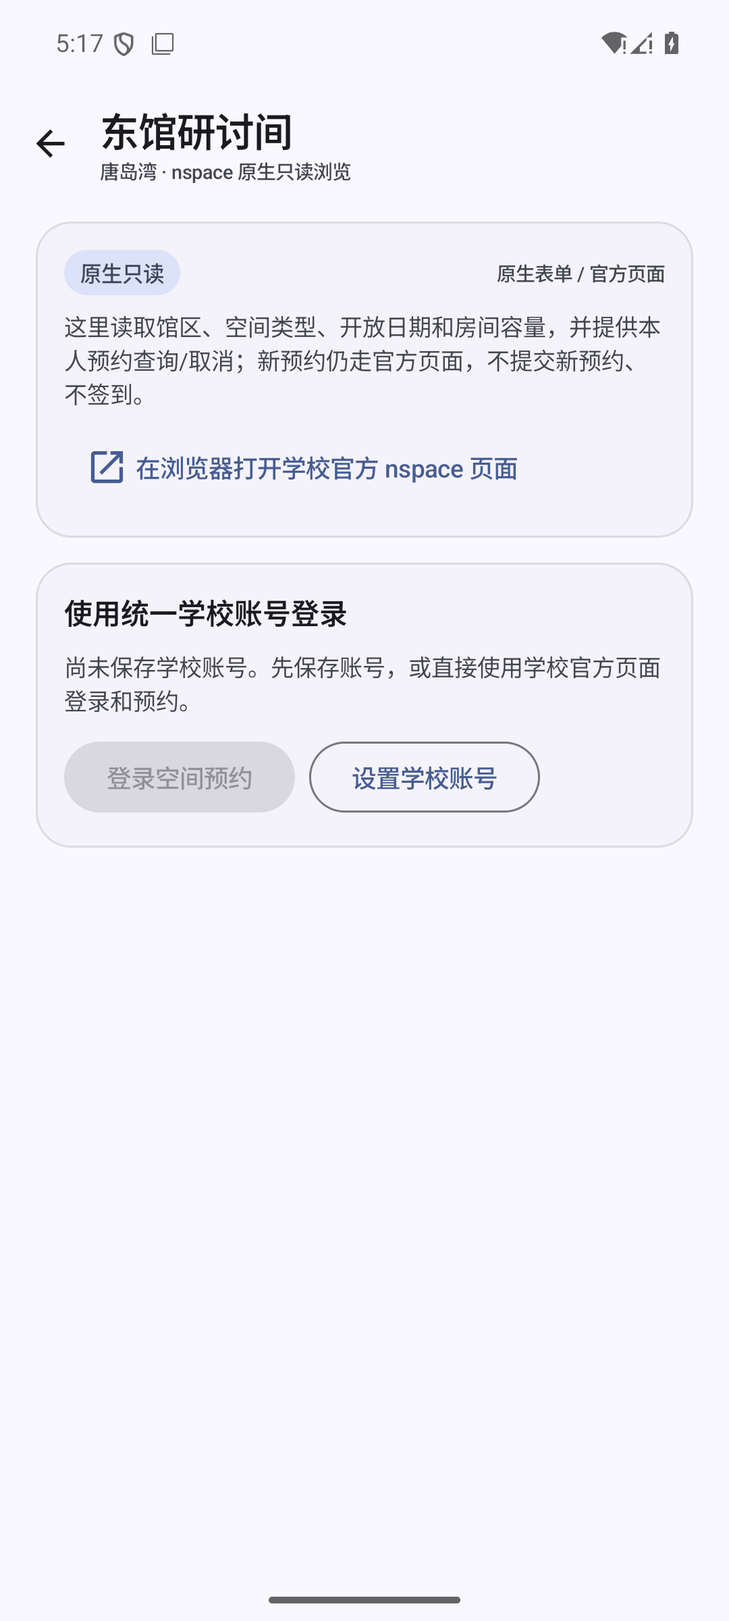
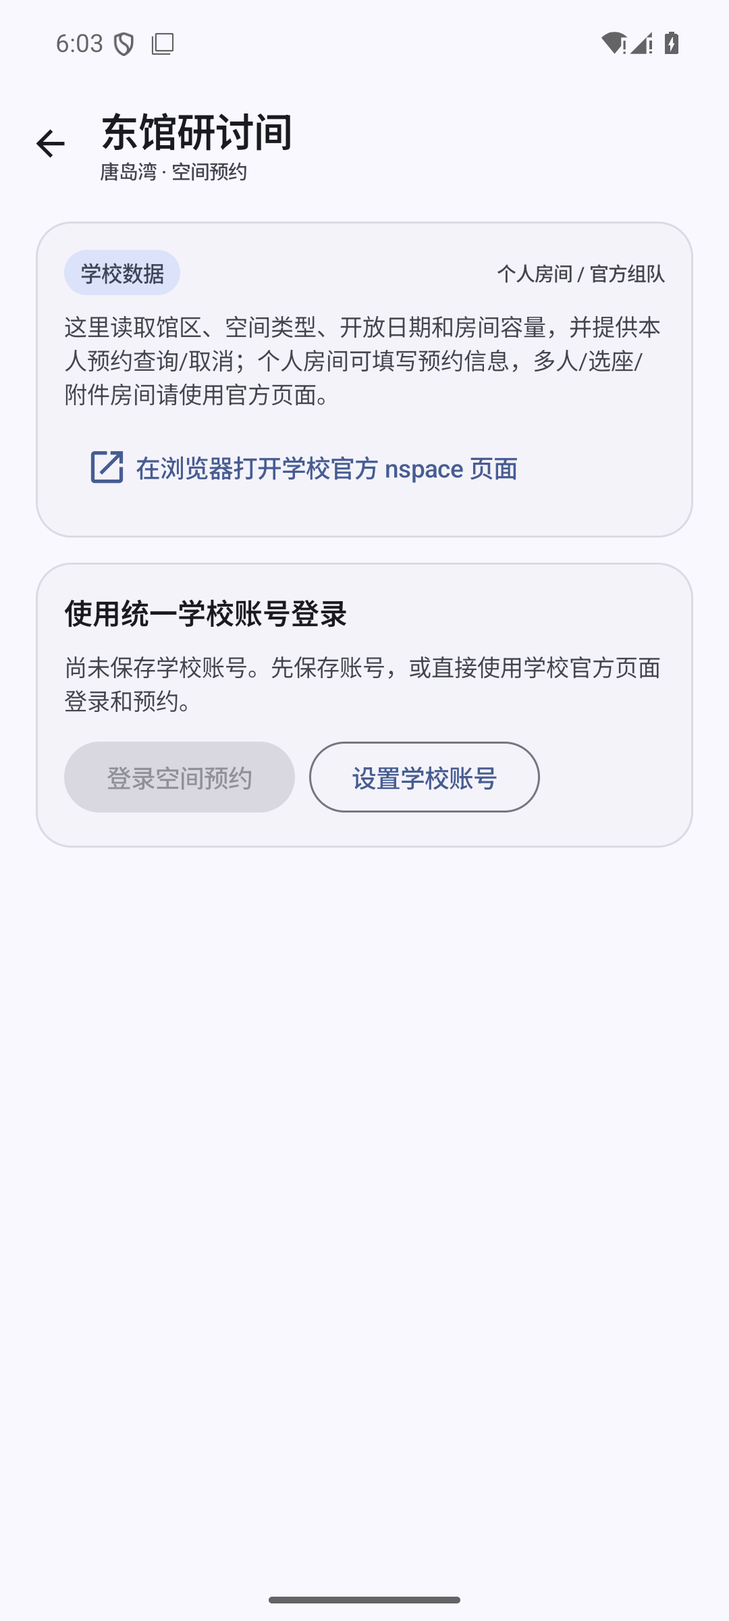
fix(library): correct nspace room types and refine booking copy

diff --git a/feature/library/src/main/kotlin/com/upcpocket/app/ui/library/NspaceScreen.kt b/feature/library/src/main/kotlin/com/upcpocket/app/ui/library/NspaceScreen.kt
@@ -53,10 +53,10 @@ import com.upcpocket.app.ui.components.SectionHeader
 import com.upcpocket.app.ui.components.StatusPill
 
 /**
- * 唐岛湾东馆研讨间的原生只读浏览。
+ * 唐岛湾东馆研讨间的房间浏览与个人预约。
  *
- * 这不是预约提交页：房间、容量、开放日期来自 nspace 的已观察只读接口；真正的预约、
- * 参与人和取消仍在学校官方 nspace 页面完成，避免在没有实测写协议时伪造成功。
+ * 房间、容量、开放日期来自 nspace 的只读接口；个人房间可直接填写预约表单，
+ * 多人/选座/附件房间会引导到学校官方页面。真正的最终提交仍需用户确认。
  */
 @OptIn(ExperimentalMaterial3Api::class)
 @Composable
@@ -93,7 +93,7 @@ fun NspaceScreen(
                     Column {
                         Text("东馆研讨间")
                         Text(
-                            "唐岛湾 · nspace 原生只读浏览",
+                            "唐岛湾 · 空间预约",
                             style = MaterialTheme.typography.labelSmall,
                             color = MaterialTheme.colorScheme.onSurfaceVariant,
                         )
@@ -122,20 +122,20 @@ fun NspaceScreen(
                 ) {
                     Row(verticalAlignment = Alignment.CenterVertically) {
                         StatusPill(
-                            text = "原生只读",
+                            text = "学校数据",
                             containerColor = MaterialTheme.colorScheme.secondaryContainer,
                             contentColor = MaterialTheme.colorScheme.onSecondaryContainer,
                         )
                         Spacer(Modifier.weight(1f))
                         Text(
-                            "原生表单 / 官方页面",
+                            "个人房间 / 官方组队",
                             style = MaterialTheme.typography.labelSmall,
                             color = MaterialTheme.colorScheme.onSurfaceVariant,
                         )
                     }
                     Text(
                         "这里读取馆区、空间类型、开放日期和房间容量，并提供本人预约查询/取消；" +
-                            "新预约仍走官方页面，不提交新预约、不签到。",
+                            "个人房间可填写预约信息，多人/选座/附件房间请使用官方页面。",
                         style = MaterialTheme.typography.bodySmall,
                         color = MaterialTheme.colorScheme.onSurfaceVariant,
                     )
@@ -399,8 +399,18 @@ private fun RoomCard(
                     )
                 }
             }
-            TextButton(onClick = { onBook(room) }) {
-                Text("原生预约表单")
+            val canTryNative = (room.minUser ?: 1) <= 1 &&
+                !room.seatOpen.equals("OPEN", ignoreCase = true)
+            if (canTryNative) {
+                TextButton(onClick = { onBook(room) }) {
+                    Text("填写预约信息")
+                }
+            } else {
+                Text(
+                    "该房间需要多人组队或选座，请在官方页面预约。",
+                    style = MaterialTheme.typography.labelSmall,
+                    color = MaterialTheme.colorScheme.onSurfaceVariant,
+                )
             }
             TextButton(onClick = { onOfficial(room) }) {
                 Icon(Icons.AutoMirrored.Filled.OpenInNew, contentDescription = null)

diff --git a/feature/library/src/main/kotlin/com/upcpocket/app/ui/library/NspaceBookingDialog.kt b/feature/library/src/main/kotlin/com/upcpocket/app/ui/library/NspaceBookingDialog.kt
@@ -16,6 +16,7 @@ import androidx.compose.material.icons.automirrored.filled.ArrowBack
 import androidx.compose.material.icons.automirrored.filled.OpenInNew
 import androidx.compose.material3.AlertDialog
 import androidx.compose.material3.Button
+import androidx.compose.material3.Checkbox
 import androidx.compose.material3.CircularProgressIndicator
 import androidx.compose.material3.DropdownMenu
 import androidx.compose.material3.DropdownMenuItem
@@ -146,7 +147,7 @@ fun NspaceBookingDialog(
                         )
                         Text(
                             "人数：${state.detail!!.minUser}–${state.detail!!.maxUser} 人；" +
-                                "本页仅支持单人且无需选座/附件的房间。",
+                                "多人房间（如 A123）需要组队，请使用官方页面。",
                             style = MaterialTheme.typography.bodySmall,
                             color = MaterialTheme.colorScheme.onSurfaceVariant,
                         )
@@ -175,8 +176,8 @@ fun NspaceBookingDialog(
                             )
                         }
                         Text(
-                            "时段边界来自房间 open/close、timeSlice 和 disableTime；" +
-                                "确认前仍会按 bookPolicy 再校验。",
+                            "可预约时间以学校返回的开放时段和不可预约时段为准；" +
+                                "确认前会再次检查人数、时长和必填项。",
                             style = MaterialTheme.typography.labelSmall,
                             color = MaterialTheme.colorScheme.onSurfaceVariant,
                         )
@@ -284,7 +285,25 @@ private fun FormField(
 ) {
     val selectLike = field.type == "SELEC" || field.type == "RADIO"
     val label = field.label + if (field.required) " *" else ""
-    if (selectLike && field.options.isNotEmpty()) {
+    if (field.type == "CHECKBOX" && field.options.isNotEmpty()) {
+        val selected = value.split(',').filter { it.isNotBlank() }.toSet()
+        Column(verticalArrangement = Arrangement.spacedBy(2.dp)) {
+            Text(label)
+            field.options.forEach { option ->
+                Row(verticalAlignment = Alignment.CenterVertically) {
+                    Checkbox(
+                        checked = option.value in selected,
+                        onCheckedChange = { checked ->
+                            val next = if (checked) selected + option.value
+                            else selected - option.value
+                            onChange(field.field, next.joinToString(","))
+                        },
+                    )
+                    Text(option.name)
+                }
+            }
+        }
+    } else if (selectLike && field.options.isNotEmpty()) {
         var open by remember { mutableStateOf(false) }
         val selected = field.options.firstOrNull { it.value == value }?.name ?: "请选择"
         Box {

diff --git a/feature/library/src/test/kotlin/com/upcpocket/app/data/nspace/NspaceProtocolTest.kt b/feature/library/src/test/kotlin/com/upcpocket/app/data/nspace/NspaceProtocolTest.kt
@@ -60,7 +60,13 @@ class NspaceProtocolTest {
         assertEquals(
             listOf(NspaceRoomType("t1", "研讨间", true)),
             NspaceProtocol.parseRoomTypes(
-                """{"status":true,"code":200,"data":[{"id":"t1","name":"研讨间","status":1}]}""",
+                """{"status":true,"code":200,"data":[{"id":"t1","name":"研讨间","status":0}]}""",
+            ),
+        )
+        assertEquals(
+            listOf(NspaceRoomType("t2", "停用房间", false)),
+            NspaceProtocol.parseRoomTypes(
+                """{"status":true,"code":200,"data":[{"id":"t2","name":"停用房间","status":1}]}""",
             ),
         )
         assertEquals(

diff --git a/feature/library/src/test/kotlin/com/upcpocket/app/data/nspace/NspaceBookingRulesTest.kt b/feature/library/src/test/kotlin/com/upcpocket/app/data/nspace/NspaceBookingRulesTest.kt
@@ -85,10 +85,17 @@ class NspaceBookingRulesTest {
                 listOf(NspaceUseType("1", "个人")),
             ),
         )
-        assertNotNull(
+        assertNull(
             NspaceBookingRules.nativeEligibilityReason(
                 detail,
                 listOf(field("team", "CHECKBOX")),
+                listOf(NspaceUseType("1", "个人")),
+            ),
+        )
+        assertNotNull(
+            NspaceBookingRules.nativeEligibilityReason(
+                detail,
+                listOf(field("team", "DATE")),
                 listOf(NspaceUseType("1", "个人")),
             ),
         )

diff --git a/feature/library/src/main/kotlin/com/upcpocket/app/data/nspace/NspaceBookingRules.kt b/feature/library/src/main/kotlin/com/upcpocket/app/data/nspace/NspaceBookingRules.kt
@@ -10,7 +10,7 @@ import kotlin.math.min
  * 未知表单类型）会明确拒绝，而不是提交一个可能失败的请求。
  */
 object NspaceBookingRules {
-    private val supportedTypes = setOf("INPUT", "TEXTAREA", "SELEC", "RADIO")
+    private val supportedTypes = setOf("INPUT", "TEXTAREA", "SELEC", "RADIO", "CHECKBOX")
 
     fun nativeEligibilityReason(
         detail: NspaceRoomDetail,

diff --git a/feature/library/src/main/kotlin/com/upcpocket/app/data/nspace/NspaceProtocol.kt b/feature/library/src/main/kotlin/com/upcpocket/app/data/nspace/NspaceProtocol.kt
@@ -42,7 +42,7 @@ internal object NspaceProtocol {
             NspaceRoomType(
                 id = string(obj, "id"),
                 name = string(obj, "name"),
-                enabled = int(obj, "status")?.let { it == 1 } ?: true,
+                enabled = int(obj, "status")?.let { it == 0 } ?: true,
             )
         }.filter { it.id.isNotBlank() && it.name.isNotBlank() }
     }

diff --git a/docs/m5/README.md b/docs/m5/README.md
@@ -2,8 +2,9 @@
 
 状态：**本地可评审第一版**（开发分支，未合并 main、未发布、未推送）。M5 不改变
 M0—M4 的认证、缓存、清理与接口语义，只重新组织入口、页面层级与原生 Compose 视觉。
-本轮补充“图书馆”统一入口、nspace 原生只读/预约取消和真实凭据 CAS 验证；真实登录停在
-CAS 验证码交互，未把挑战当成功，详见 [图书馆六入口](图书馆六入口.md)。
+本轮补充“图书馆”统一入口、nspace 浏览/预约取消、个人预约表单、WebView 验证码回退和
+真实凭据检查；用户手机已验收 nspace 会话与 A123 表单，agent 新设备仍受 CAS 凭据/验证码
+限制，详见 [图书馆六入口](图书馆六入口.md)。
 
 - 基线：`93967b1`（`m4-library-unified-auth`，M4 修正）
 - 分支/工作树：`lody/m5-campus-home`；本会话工作树（独立于其他会话）
@@ -65,9 +66,12 @@ CAS 验证码交互，未把挑战当成功，详见 [图书馆六入口](图书
 - 空教室：两校区、日期、楼栋、节次筛选和结果页不变。
 - 图书馆：首页统一入口为“图书馆”（libseat 座位 + nspace 东馆研讨间 + 古镇口/求是四个
   Chaoxing 入口）。libseat 保留统一认证、座位查询/预约/取消、记住登录与会话清理；nspace
-  新增独立 CAS/token、原生只读馆区/类型/日期/房间分页、原生本人预约列表与取消、单人预约
+  新增独立 CAS/token、馆区/类型/日期/房间分页、本人预约列表与取消、个人预约
   表单（用途/时段/必填/最终确认）和官方 WebView 验证码回退；每个房间仍保留官方
-  `#/detail?id=...&selectDate=...` 深链。真实 CAS 登录停在验证码挑战，未完成本人读取。
+  `#/detail?id=...&selectDate=...` 深链。真实 CAS 自动登录仍停在模拟器验证码挑战；用户手机
+  已验收 nspace 会话、1 馆区/4 类型/3 日期切换和 A123 详情/表单可达，但未提交真实预约。
+  A123 需多人组队，应用只引导官方页面，不伪造团队成员。空间类型 `status=0` 曾因解析
+  反向被灰置；现按 `0` 可用/`1` 停用处理，四类型可切换。
   Chaoxing seat/seatengine/reservepc 使用从 HAR 提取的稳定入口（不含 uid/enc/code/state），
   在系统浏览器官方登录；仍未原生查询/预约。六入口矩阵见
   [图书馆六入口](图书馆六入口.md)。
@@ -158,8 +162,8 @@ CAS 验证码交互，未把挑战当成功，详见 [图书馆六入口](图书
 | [20-focus-font-130.png](screenshots/20-focus-font-130.png) | 专注初始进入 1.3×；完整计时环、状态、开始按钮 |
 | [21-focus-font-150.png](screenshots/21-focus-font-150.png) | 专注初始进入 1.5×；完整计时环、状态、开始按钮 |
 | [22-home-font-150.png](screenshots/22-home-font-150.png) | 首页 1.5×；标题/服务卡文字完整，可滚动到两组服务与页脚 |
-| [23-library-hub.png](screenshots/23-library-hub.png) | 图书馆统一入口；六入口分组、原生/原生只读/官方登录标注；reservepc 已使用稳定租户入口 |
-| [24-library-nspace.png](screenshots/24-library-nspace.png) | 东馆研讨间 nspace 未登录态；说明原生只读/单人预约表单需登录，官方详情与网页登录可用 |
+| [23-library-hub.png](screenshots/23-library-hub.png) | 图书馆统一入口；六入口分组、学校数据/官方登录标注；reservepc 已使用稳定租户入口 |
+| [24-library-nspace.png](screenshots/24-library-nspace.png) | 东馆研讨间 nspace 未登录态；说明个人房间可填预约信息，多人/选座/附件走官方页面 |
 | [25-library-hub-font-150.png](screenshots/25-library-hub-font-150.png) | 图书馆统一入口 1.5× 顶部；长文案不截断 |
 | [26-library-hub-font-150-bottom.png](screenshots/26-library-hub-font-150-bottom.png) | 1.5× 滚动到底部；六入口/官方登录说明/学校官网均可到达 |
 
@@ -193,8 +197,9 @@ CAS 验证码交互，未把挑战当成功，详见 [图书馆六入口](图书
 - 图书馆统一页：首页“图书馆”进入；唐岛湾两卡、古镇口两卡、求是两卡均可达；nspace 未登录态
   与官方页按钮可达；统一页 1.5× 顶部/底部滚动截图已保存。Chaoxing 官方按钮在系统浏览器打开，
   没有把浏览器页面计入原生成功。
-- 图书馆写操作：未触发任何真实 libseat/nspace 预约、取消、签到；nspace 原生只读认证与
-  “我的预约/取消”未用真实账号验收；界面取消有二次确认，模拟器未点击确认。原因与最小协助见
+- 图书馆写操作：未触发任何真实 libseat/nspace 预约、取消、签到；用户手机只验收了 nspace
+  浏览/A123 表单可达，没有点击最终预约；“我的预约/取消”仍无真实记录验收，界面取消有二次
+  确认，模拟器未点击确认。原因与最小协助见
   [图书馆六入口](图书馆六入口.md)。
 
 ## 5. 自动化结果
@@ -220,29 +225,35 @@ CAS 验证码交互，未把挑战当成功，详见 [图书馆六入口](图书
 
 - 评审副本：`release/UPC-Pocket-M5-library-preview-debug.apk`
 - 构建产物：`app/build/outputs/apk/debug/app-debug.apk`
-- 大小：`66,393,057` bytes
[1 lines of base64/hex data omitted]
+- 大小：`66,399,393` bytes
[1 lines of base64/hex data omitted]
 - 该 APK 为 debug 构建、含 debug-only 合成课表预览 Activity；release 构建不会合并它。未上传、未发布。
 - 上一版 M5 评审 APK `release/UPC-Pocket-M5-preview-debug.apk` 保留为对照；本轮图书馆改动在该新副本中。
 
 ## 6. 未验证 / 限制
 
-- 本轮使用用户提供的真实凭据重试了 CAS：nspace/libseat 都到达 CAS 登录页，提交一次后
-  服务器返回 401 登录/验证码页，随即停止。修复了 CAS 把 401 验证码页误判为
-  `ACCESS_DENIED` 的问题，现返回 `INTERACTION_REQUIRED` 并保留学校交互 URL；未绕过、
-  未重复失败密码、未把挑战当认证成功。真实本人读取仍未完成，需要用户完成验证码后继续。
-- 未提交任何真实预约、取消、签到、团队或写请求；未打开真实座位图。nspace 原生预约表单
-  已接入并有合成 JSON/规则测试，但未点击最终“确认提交”。
+- 模拟器上的真实凭据尝试到达 CAS 后被验证码挑战拦下；后续独立 Chrome 正常打开 CAS
+  表单（无验证码），但本地凭据两行均被 CAS 返回“用户名或密码错误”，随即停止、未继续
+  重试。两者说明：验证码是模拟器路径的阻碍，而本机凭据文件与本次 CAS 登录也不匹配；
+  不能据此反推用户手机会话无效。未绕过、未重复失败密码、未把挑战或页面可达当认证成功。
+- **用户手机真机验收（用户提供，不是 agent 新设备）**：nspace 会话已建立，1 馆区、4 空间
+  类型、3 日期可显示切换，A123 详情/表单已加载（3–6 人、08:00–21:50、60–120 分钟、使用
+  类型、手机号/主题/大纲）。没有点击最终预约；这不等于真实预约成功，也不等于 agent 新设备
+  已完成本人读取。
+- 未提交任何真实预约、取消、签到、团队或写请求；未打开真实座位图。nspace 个人预约表单
+  已接入并有合成 JSON/规则测试，但未点击最终“确认提交”；A123 需多人组队，应用明确引导
+  官方页面，没有伪造参与人/团队。
 - 未在真机/其他 WebView 完成 nspace CAS 验证码后的回跳、Chaoxing/reservepc 的登录后页面；
-  只验证稳定入口能到官方登录/CAS。
+  Chaoxing 稳定入口只验证到官方登录/CAS。
 - 截图中的合成课表只覆盖视觉状态，不等于真实协议数据；真实数据仍受 M3 的账号、会话、缓存与
   服务端校验约束。
 - 1.5× 下教学周头部计数会自然换行；布局可滚动、不重叠，但还未针对 2.0× 单独适配。
 - 未重排空教室、图书馆、电费内部页面；本轮只统一外层视觉/入口。它们沿用 M0—M4 的页面与交互，
   因此仍可能保留旧 spacing/文案密度，作为下一轮迭代项。
-- 图书馆统一页的 nspace 认证/只读/预约表单虽然已实现，但未用真实账号完成端到端验收；
-  Chaoxing 四入口使用稳定入口后仍是官方浏览器回退，不是原生查询。六入口矩阵和具体
-  阻塞/最小协助见 [图书馆六入口](图书馆六入口.md)，不能据此声称六个平台都已原生接入。
+- 图书馆统一页的 nspace 认证/表单虽然已实现，用户手机也已验收浏览/表单可达，但 agent
+  新设备尚未完成端到端；Chaoxing 四入口使用稳定入口后仍是官方浏览器回退，不是原生查询。
+  六入口矩阵和具体阻塞/最小协助见 [图书馆六入口](图书馆六入口.md)，不能据此声称六个平台
+  都已原生接入。
 - 未执行 release/R8、真机、其他 ROM/WebView；桌面组件仅验证设置页与既有测试。
 - 本轮没有执行任何真实预约/取消/签到；nspace 取消和预约提交仅在代码/合成测试中验证。
 - 这不代表最终设计定稿；需要用户先看实际第一版，再决定是否继续细化。

diff --git a/README.md b/README.md
@@ -56,7 +56,7 @@ Debug-only 合成预览，不是真实课程。
 - **M2 开发分支（尚未发布）**把校园卡余额查询目标收束到当前统一账号：只读取登录名整串符合 8–16 位数字的本人学号，不再使用页面独立学号输入；无账号、恢复中、清理中、密文不可用或登录名不是有效学号时不联网。页面、2×2 组件和 WorkManager Worker 共用同一绑定服务；换号立即撤下旧余额，同号改密保留历史值但拒绝旧请求。组件最终写入使用 ticket 与绑定/账号代次/业务代次/快照版本门闩，迟到的旧读取不能覆盖新空态。旧 `card-balance-v1.json` 仅在用户绑定同一学号后迁移，异号/损坏/未绑定不展示。余额缓存清除与删除账号分开，清除失败会继续隐藏旧值并可在重启后重试。详见 [M2 执行记录](docs/m2/README.md)。
 - **M3 开发分支（尚未发布）**新增“课表”tab：使用当前统一账号的正常 CAS 表单认证，只在核对后的 `cas.upc.edu.cn` HTTPS 页面提交密码；缺失或明确失效的课表业务会话最多恢复一次，错误密码不循环尝试，验证码/二次验证转到学校正常网页登录。首入只查询当前教学周，切周按需查询，不遍历整学期、不周期轮询。课程按周日起算的学校周次与 ISO weekday 对齐，保留非连续节次、单双周源周次与重叠课程；未提供字段显示“未提供”。成功周按内部 accountId + 学年/学期/教学周加密/原子缓存，离线只显示已成功查询周；换号/删号清理会话与缓存，迟到响应不写回。详见 [M3 执行记录](docs/m3/README.md)。
 - **M4 开发分支（尚未发布）**图书馆座位新增“使用已保存学校账号登录”：通过正常 CAS 表单完成 libseat 统一认证、app token 与 seat token 兑换，并用 `/rest/v2/user` 核验返回本人与保存账号一致；手动 WebView 登录也经同一受控账号身份契约核验，A 账号下登录 B 不会发布或持久化。会话绑定 accountId/凭据代次，换号/删号/改密/清理失败时阻止旧会话恢复，旧恢复/旧自动/旧手动失败不能删除新登录。验证码或二次验证仍转到学校官方网页登录；没有保存账号时手动网页会话只保留内存。`nspace` 后续已补独立认证/只读，Chaoxing 四入口仍未原生；座位写操作不在 M4 范围。详见 [M4 执行记录](docs/m4/README.md)。
-- **M5 开发分支（尚未发布，第一版待评审）**顶级导航收束为 **首页 / 课表 / 专注**，取消“更多”tab；账号、图书馆登录、桌面组件、校园官方网页、外观和关于统一从首页右上角设置进入，校园网页同时在首页保留快捷卡。首页服务卡仍由插件贡献，课表/专注 tab 由插件贡献；旧入口映射见 [M5 记录](docs/m5/README.md)。视觉去掉玻璃叠层，课表重做教学周/今日课程/横向周网格/详情和离线/空周/失败状态；未添加 Navigation 3、AGP 9、Glance 或未实现的校园能力。图书馆入口已统一为“图书馆”：保留 libseat，新增 nspace 原生只读、本人预约/取消、单人预约表单、WebView 验证码回退及房间官方详情深链；Chaoxing 四入口使用稳定官方登录入口，但仍非原生查询。真实 CAS 一次受控尝试返回 401 验证码挑战，已修复为交互态，未完成端到端本人读取；六入口矩阵见 [图书馆六入口](docs/m5/图书馆六入口.md)，不声称六个平台都已原生接入。
+- **M5 开发分支（尚未发布，第一版待评审）**顶级导航收束为 **首页 / 课表 / 专注**，取消“更多”tab；账号、图书馆登录、桌面组件、校园官方网页、外观和关于统一从首页右上角设置进入，校园网页同时在首页保留快捷卡。首页服务卡仍由插件贡献，课表/专注 tab 由插件贡献；旧入口映射见 [M5 记录](docs/m5/README.md)。视觉去掉玻璃叠层，课表重做教学周/今日课程/横向周网格/详情和离线/空周/失败状态；未添加 Navigation 3、AGP 9、Glance 或未实现的校园能力。图书馆入口已统一为“图书馆”：保留 libseat，新增 nspace 馆区/类型/日期/房间浏览、本人预约/取消、个人预约表单、WebView 验证码回退及房间官方详情深链；A123 等多人/选座房间引导官方组队，不伪造成员。用户手机验收已建立 nspace 会话并看到 1 馆区/4 类型/3 日期和 A123 表单，但未提交真实预约；agent 新设备模拟器遇 CAS 验证码，独立 Chrome 则被 CAS 判为凭据错误，未完成端到端本人读取。Chaoxing 四入口使用稳定官方登录入口，但仍非原生查询。六入口矩阵见 [图书馆六入口](docs/m5/图书馆六入口.md)，不声称六个平台都已原生接入或预约成功。
 - 部分校园服务使用 HTTP；古镇口电费保留官方页面入口，证书或网络异常时可能无法访问，不绕过证书校验。课表/CAS 只走 HTTPS，不关闭证书校验。
 - 当前轻量版不包含课程编辑、日历导出、提醒、课表桌面组件、校园卡流水、充值、数字石大或图书馆主页入口。
 

diff --git a/docs/CHANGELOG.md b/docs/CHANGELOG.md
@@ -6,11 +6,12 @@
 - 新增独立 nspace 认证：libspace 的 nspace SSO 入口 → 正常 CAS → app token（query/fragment）→ `/spa/static/public/api/remoteCasLogin` → `userInfo` 本人核验；入口 302 到 CAS 已实测。nspace token 只存内存，使用独立 `library.nspace` 能力和 `/spa` Repository，绝不与 libseat seat token 混用。
 - 新增 nspace 原生只读：馆区/空间类型/开放日期/房间分页，严格解析 `status/code/data`、区分 401 与空 `pageList`；每个房间提供官方 `#/detail?id=...&selectDate=...` 预约深链（只带房间/日期，不带 token/uid/enc）；新增原生“我的预约”列表与确认式取消（`GET cancelBook/{id}`）；新增单人预约表单（详情/用途/时段/必填/最终真实确认），对多人、选座、附件或未知字段明确拒绝。未点击真实最终提交；`stopBook`/团队/签到未实现。
 - 新增 nspace 官方 WebView 验证码回退：学校 CAS 401 验证码页转 `INTERACTION_REQUIRED`；应用内加载固定学校入口，只捕获 `/nspace` app token，经 `remoteCasLogin`、本人核验和账号代次/epoch/revision 门闩发布；换号/退出后的迟到回调不发布。token 不持久化、不与 libseat 混用。
+- 修复空间类型灰置：HAR 的 4 个空间类型 `status` 均为 `0`，旧解析把 `0` 当禁用；公开页面/用户手机可切换。现按 `status=0` 可用、`status=1` 停用处理，并新增协议测试。nspace 页面文案去掉“原生只读/不提交新预约”等与现有表单矛盾的实现术语；A123 等多人/选座房间不再显示会失败的个人表单入口，明确引导官方组队。
 - Chaoxing 四入口改为从 HAR 提取的稳定入口：seat/seatengine 只保留 `fidEnc/mappId[/seatId]`，reservepc 两租户只保留 `reserveId/resvAppId/fidEnc/appId/mappId`，排除 `uid/enc/code/state/wfwEnc`；实测分别到 passport2 登录或 `tyrzfw` → UPC CAS。仍是官方浏览器入口，不是原生查询。
 - 修复 CAS 挑战误判：CAS 以 401/403 返回登录/验证码页时，不再直接报 `ACCESS_DENIED`，而是解析页面并返回 `INTERACTION_REQUIRED` + 学校交互 URL；无表单才拒绝。使用用户提供的真实凭据的一次受控尝试到达该验证码挑战，随即停止，不绕过、不重复失败密码。
 - 统一页标签仍区分“原生/原生只读/官方登录”；reservepc 从“待入口”改为官方登录，但 seat/seatengine/reservepc 四入口都不是原生查询，不把入口页或 HTTP 200 当作业务成功。
 - 账号门闩：nspace 登录与 libseat 一样绑定当前 accountId/凭据代次；换号/删号同时清理两面会话，迟到认证结果不发布；新增合成测试覆盖协议分页、401、本人不一致、代次变化和独立 token。
-- 验证：`core:upc-auth` 28 tests、`feature:library` 101 tests、`app:testDebugUnitTest` 与 `assembleDebug` 通过；`feature:library:lintDebug`/`app:lintDebug` 通过（app 仍 0 errors / 2 既有 warnings）。模拟器验收统一页、nspace 未登录态、1.5× 滚动和六个入口；真实凭据到达 CAS 验证码挑战后停止，未完成 nspace 登录/浏览/取消，未执行任何真实预约/取消/签到。详见 [六入口记录](m5/图书馆六入口.md)。
+- 验证：`core:upc-auth` 28 tests、`feature:library` 101 tests、`app:testDebugUnitTest` 与 `assembleDebug` 通过；`feature:library:lintDebug`/`app:lintDebug` 通过（app 仍 0 errors / 2 既有 warnings）。模拟器验收统一页、nspace 未登录态、1.5× 滚动和六个入口；用户手机验收 nspace 会话/1 馆区/4 类型/3 日期/A123 表单，但未点击真实预约；agent 新设备模拟器遇 CAS 验证码、独立 Chrome 的本地凭据被 CAS 判为错误，未完成 agent 端本人读取，也未执行任何真实预约/取消/签到。详见 [六入口记录](m5/图书馆六入口.md)。
 
 ## M5 · 首页/课表/专注与统一设置入口（开发分支，未发布）
 
